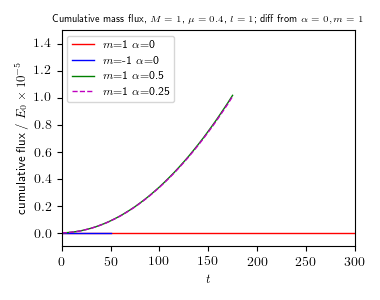
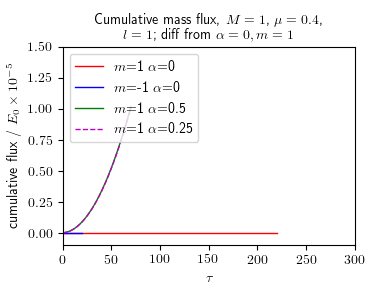
new plots

diff --git a/Analysis/scripts/plot_mass_flux_compare_Al.py b/Analysis/scripts/plot_mass_flux_compare_Al.py
@@ -169,10 +169,10 @@ def plot_graph():
 	ax1 = plt.axes()
 	fig = plt.gcf()
 	fig.set_size_inches(3.8,3)
-	font_size = 5
-	title_font_size = 7
-	label_size = 9
-	legend_font_size = 8
+	font_size = 10
+	title_font_size = 10
+	label_size = 10
+	legend_font_size = 10
 	rc('xtick',labelsize=font_size)
 	rc('ytick',labelsize=font_size)
 	#
@@ -183,14 +183,15 @@ def plot_graph():
 	dd0.load_data()
 	for dd in data_dirs:
 		dd.load_data()
+		mu = float(dd.mu)
 		#net_flux = outer_mass_flux - inner_mass_flux
 		#label_ = "$\\mu$={:.2f}".format(mu)
 		#label_ = "$l$={:d} $m$={:d}".format(dd.l, dd.m)
 		label_ = "$m$={:d} $\\alpha$={:s}".format(dd.m, dd.Al)
 		#ax1.plot(tflux,inner_mass_flux,colours[i]+"--", label="flux into R={:.1f} ".format(r_min)+label_)
 		#ax1.plot(tflux,outer_mass_flux,colours[i]+"-", label="flux into R={:.1f} ".format(r_max)+label_)
-		ax1.plot(dd.tflux,(10**5)*(dd.outer_mass_flux-dd0.outer_mass_flux[:len(dd.outer_mass_flux)]),colours[i]+"-", label=label_, linewidth=1)
-		#ax1.plot(dd.tflux,dd.analytic_outer_flux-dd0.analytic_outer_flux[:len(dd.outer_mass_flux)],colours[i]+"--", label="_4th order t$\\mu$/r analytic flux into R={:.1f} ".format(R_max)+label_, linewidth=1)
+		ax1.plot(dd.tflux*mu,(10**5)*(dd.outer_mass_flux-dd0.outer_mass_flux[:len(dd.outer_mass_flux)]),colours[i]+"-", label=label_, linewidth=1)
+		#ax1.plot(dd.tflux*mu,dd.analytic_outer_flux-dd0.analytic_outer_flux[:len(dd.outer_mass_flux)],colours[i]+"--", label="_4th order t$\\mu$/r analytic flux into R={:.1f} ".format(R_max)+label_, linewidth=1)
 		#ax1.plot(tflux,net_flux,colours[i]+":", label="net flux " + label_)
 		#
 		if plot_mass:
@@ -198,16 +199,16 @@ def plot_graph():
 			#print(mass_line_data[0:,1])
 			#ax1.plot(tmass,delta_mass/E0,colours[i]+"-", label="change in mass {:.1f}$<r<${:.1f} ".format(r_min,r_max)+label_)
 			if cumulative:
-				ax1.plot(dd.tmass,dd.dmass,colours[i]+"-.", label="_change in mass $R_+<R<${:.1f} ".format(R_max)+label_, linewidth=1)
+				ax1.plot(dd.tmass*mu,dd.dmass,colours[i]+"-.", label="_change in mass $R_+<R<${:.1f} ".format(R_max)+label_, linewidth=1)
 			elif not cumulative:
-				ax1.plot(dd.tmass,dd.dmass,colours[i]+"-.", label="_rate of change in mass $R_+<R<${:.1f} ".format(R_max)+label_, linewidth=1)
+				ax1.plot(dd.tmass*mu,dd.dmass,colours[i]+"-.", label="_rate of change in mass $R_+<R<${:.1f} ".format(R_max)+label_, linewidth=1)
 		i = i + 1
-	ax1.set_xlabel("$t$", fontsize=label_size)
+	ax1.set_xlabel("$\\tau$", fontsize=label_size)
 	ax1.set_xlim((0, 300))
 	ax1.set_ylim((-0.1, 1.5))
 	if cumulative:
 		ax1.set_ylabel("cumulative flux / $E_0 \\times 10^{-5}$", fontsize=label_size)
-		ax1.set_title("Cumulative mass flux, $M=1$, $\\mu=0.4$, $l=1$; diff from $\\alpha=0, m=1$", wrap=True, fontsize=title_font_size)
+		ax1.set_title("Cumulative mass flux, $M=1$, $\\mu=0.4$, \n $l=1$; diff from $\\alpha=0, m=1$", wrap=True, fontsize=title_font_size)
 		save_path = home_path + "plots/mass_flux_in_R{:.0f}_IsoKerr_compare_Al_cumulative_difference_from_Al0_m1.png".format(R_max)
 	else:
 		ax1.set_ylabel("flux / $E_0$", fontsize=label_size)

diff --git a/Analysis/scripts/plot_mass_flux_compare_lm.py b/Analysis/scripts/plot_mass_flux_compare_lm.py
@@ -163,10 +163,10 @@ def plot_graph():
 	ax1 = plt.axes()
 	fig = plt.gcf()
 	fig.set_size_inches(3.8,3)
-	font_size = 8
-	title_font_size = 8
-	label_size = 8
-	legend_font_size = 8
+	font_size = 10
+	title_font_size = 10
+	label_size = 10
+	legend_font_size = 10
 	rc('xtick',labelsize=font_size)
 	rc('ytick',labelsize=font_size)
 	#
